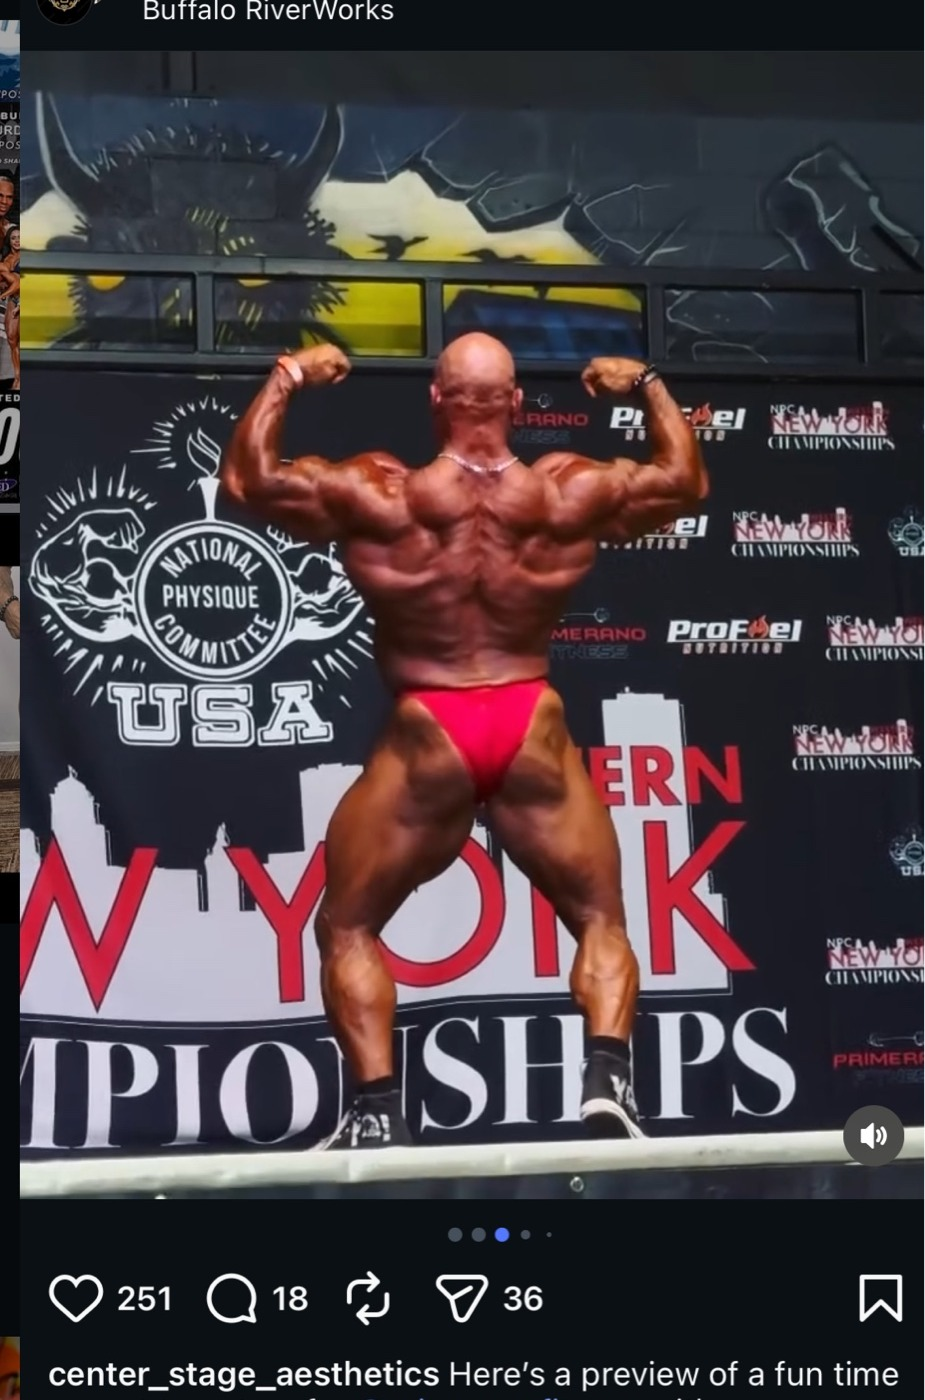
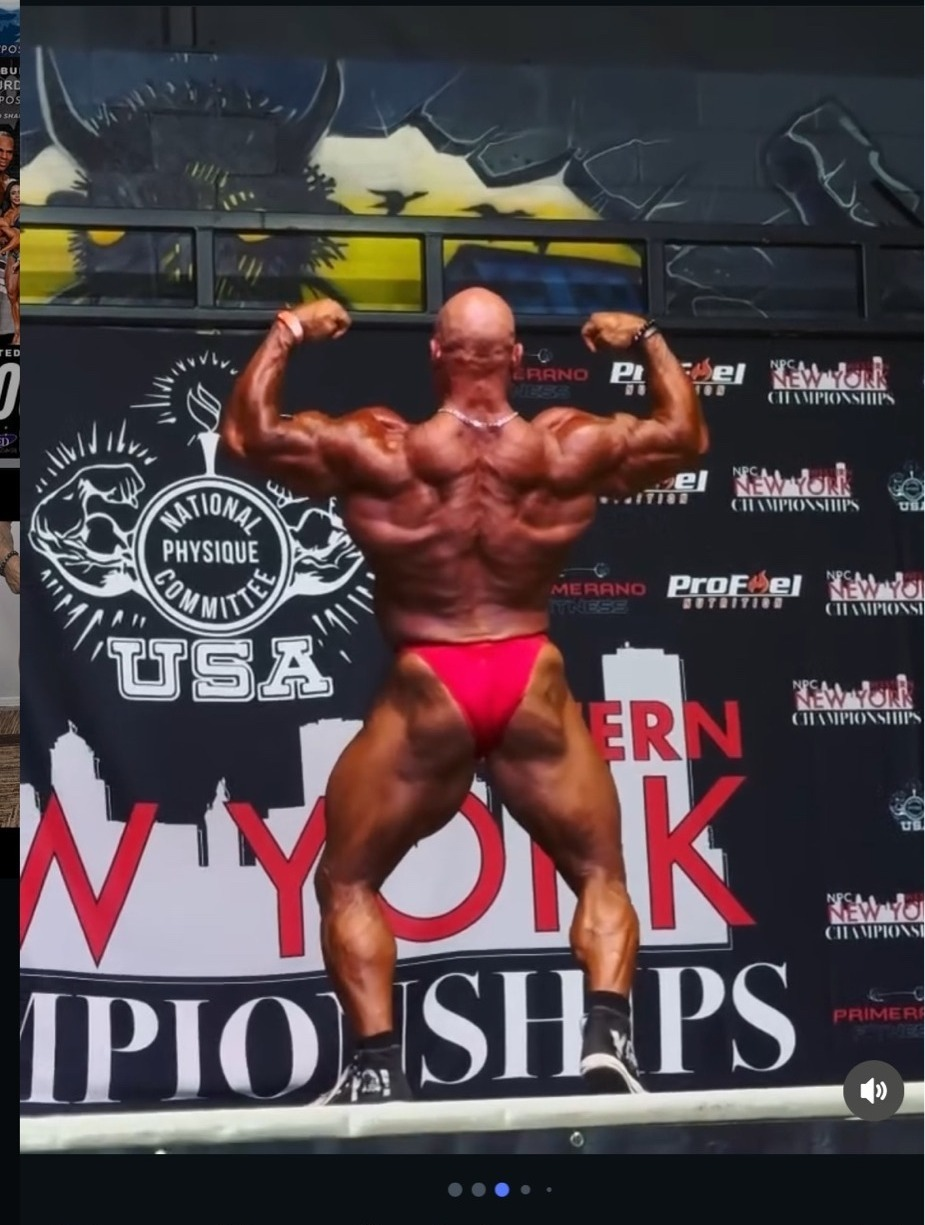
Fix photo cropping, remove duplicates, enhance visual quality
- Crop Instagram UI from 3 images (procard-ladies, guest-posing-npc-ny, gym-recent)
- Remove duplicate gallery-champion-2024, use caption on most-muscular-stage
- Add missing results-procard-male.jpg and event-lieberman-team-trophy.jpg
- Move Rear Lat Spread + Most Muscular right after IFBB Worlds featured photos
- Fix Romania back photo object-position (too zoomed in)
- Enhance photo brightness/contrast/saturation across all photo sections
- Make gallery labels always visible on mobile (no hover needed)
- Enhance Arsenal/Services section: larger cards, icons, richer gradients
- Fix reveal animation: threshold 0 + rootMargin for instant scroll appearance
- Reduce stagger delay from 130ms to 80ms for faster grid reveals

https://claude.ai/code/session_01PbCoDCfGU3BFuGc5GJjS7K

diff --git a/index.html b/index.html
@@ -410,7 +410,7 @@ button{font-family:inherit;cursor:pointer;border:none;background:none}a,button{t
 .circle-grid{display:grid;grid-template-columns:1fr 1fr;gap:10px}
 .circle-photo{border-radius:14px;overflow:hidden;border:1px solid var(--borderS);position:relative;cursor:pointer;transition:all .6s var(--ease);background:linear-gradient(110deg,var(--card) 30%,rgba(224,176,48,.04) 50%,var(--card) 70%);background-size:200% 100%;animation:imgShimmer 1.8s ease-in-out infinite}
 .circle-photo:has(img.loaded){animation:none;background:var(--card)}
-.circle-photo img{width:100%;height:100%;object-fit:cover;object-position:center 25%;transition:transform .7s var(--ease),opacity .6s var(--ease),filter .7s;filter:contrast(1.05) brightness(.92)}
+.circle-photo img{width:100%;height:100%;object-fit:cover;object-position:center 25%;transition:transform .7s var(--ease),opacity .6s var(--ease),filter .7s;filter:contrast(1.08) brightness(.96) saturate(1.05)}
 img[loading="lazy"]{opacity:0;transition:opacity .6s var(--ease)}img[loading="lazy"].loaded{opacity:1}
 .circle-photo::after{content:'';position:absolute;inset:0;background:linear-gradient(180deg,transparent 40%,rgba(0,0,0,.7));pointer-events:none;opacity:.7;transition:opacity .5s}
 .circle-photo:hover::after{opacity:.2}
@@ -435,39 +435,41 @@ img[loading="lazy"]{opacity:0;transition:opacity .6s var(--ease)}img[loading="la
 .results-grid{display:grid;grid-template-columns:repeat(3,1fr);gap:14px}
 .results-photo{border-radius:12px;overflow:hidden;position:relative;border:1px solid var(--borderS);aspect-ratio:1/1;cursor:pointer;transition:all .5s var(--ease);background:linear-gradient(110deg,var(--card) 30%,rgba(224,176,48,.04) 50%,var(--card) 70%);background-size:200% 100%;animation:imgShimmer 1.8s ease-in-out infinite}
 .results-photo:has(img.loaded){animation:none;background:var(--card)}
-.results-photo img{width:100%;height:100%;object-fit:cover;object-position:center 15%;transition:transform .7s var(--ease),filter .7s;filter:contrast(1.05) brightness(.9)}
-.results-photo:hover img{transform:scale(1.06);filter:contrast(1.08) brightness(1.02) saturate(1.05)}
+.results-photo img{width:100%;height:100%;object-fit:cover;object-position:center 15%;transition:transform .7s var(--ease),filter .7s;filter:contrast(1.08) brightness(.95) saturate(1.05)}
+.results-photo:hover img{transform:scale(1.06);filter:contrast(1.1) brightness(1.04) saturate(1.1)}
 .results-photo::before{content:'';position:absolute;inset:0;z-index:2;background:linear-gradient(135deg,transparent 40%,rgba(255,240,180,.05) 50%,transparent 60%);opacity:0;transition:opacity .5s var(--ease);pointer-events:none}
 .results-photo:hover::before{opacity:1}
 .results-photo::after{content:'';position:absolute;bottom:0;left:0;right:0;height:2px;background:var(--goldGrad);opacity:0;transition:opacity .4s var(--ease);box-shadow:0 0 16px var(--accGlow),0 -4px 16px rgba(224,176,48,.08)}
 .results-photo:hover::after{opacity:1}
 .results-photo:hover{box-shadow:0 12px 40px rgba(0,0,0,.5),0 0 40px rgba(224,176,48,.06);border-color:var(--border);transform:translateY(-4px)}
-.results-photo-label{position:absolute;bottom:0;left:0;right:0;padding:12px 14px;background:linear-gradient(transparent,rgba(0,0,0,.9));font-family:var(--mono);font-size:9px;letter-spacing:.08em;color:var(--ow);opacity:.7;transition:all .3s;text-transform:uppercase;z-index:1}
+.results-photo-label{position:absolute;bottom:0;left:0;right:0;padding:14px 16px;background:linear-gradient(transparent,rgba(0,0,0,.92));font-family:var(--mono);font-size:9px;letter-spacing:.1em;color:var(--ow);opacity:.85;transition:all .3s;text-transform:uppercase;z-index:1}
 .results-photo:hover .results-photo-label{opacity:1}
 .results-photo-wide{grid-column:1/-1;aspect-ratio:21/9;max-height:300px}
 .results-photo-wide img{object-position:center center}
 /* SERVICES */
-.svc-grid{display:grid;grid-template-columns:repeat(auto-fit,minmax(300px,1fr));gap:18px}
-.svc{background:linear-gradient(160deg,rgba(12,11,8,.95),rgba(20,18,10,.98));border:1px solid var(--borderS);border-radius:14px;padding:36px 28px;position:relative;transition:all .5s var(--ease),transform .15s ease-out;overflow:hidden;box-shadow:0 2px 20px rgba(0,0,0,.3),inset 0 1px 0 rgba(224,176,48,.06);cursor:pointer;backdrop-filter:blur(8px);-webkit-backdrop-filter:blur(8px);transform-style:preserve-3d;will-change:transform}
-.svc:hover{background:linear-gradient(160deg,rgba(16,14,10,.95),rgba(28,24,12,.98));border-color:var(--borderH);box-shadow:0 20px 60px rgba(0,0,0,.6),0 0 50px var(--accS),0 0 100px rgba(224,176,48,.06),inset 0 1px 0 rgba(224,176,48,.12)}
-.svc::before{content:'';position:absolute;top:0;left:0;right:0;height:2px;background:var(--goldGrad);opacity:0;transition:opacity .4s;box-shadow:0 0 20px var(--accS),0 0 40px rgba(224,176,48,.1)}.svc:hover::before{opacity:1}
+.svc-grid{display:grid;grid-template-columns:repeat(auto-fit,minmax(300px,1fr));gap:22px}
+.svc{background:linear-gradient(160deg,rgba(12,11,8,.97),rgba(22,19,10,.99));border:1px solid var(--borderS);border-radius:16px;padding:42px 32px;position:relative;transition:all .5s var(--ease),transform .15s ease-out;overflow:hidden;box-shadow:0 4px 30px rgba(0,0,0,.4),0 1px 0 rgba(224,176,48,.04) inset,inset 0 -1px 0 rgba(0,0,0,.3);cursor:pointer;backdrop-filter:blur(12px);-webkit-backdrop-filter:blur(12px);transform-style:preserve-3d;will-change:transform}
+.svc:hover{background:linear-gradient(160deg,rgba(18,16,10,.97),rgba(30,26,14,.99));border-color:var(--borderH);box-shadow:0 24px 80px rgba(0,0,0,.7),0 0 60px var(--accS),0 0 120px rgba(224,176,48,.08),inset 0 1px 0 rgba(224,176,48,.15)}
+.svc::before{content:'';position:absolute;top:0;left:0;right:0;height:2px;background:var(--goldGrad);opacity:.25;transition:opacity .4s;box-shadow:0 0 20px var(--accS),0 0 40px rgba(224,176,48,.1)}.svc:hover::before{opacity:1}
 .svc::after{content:'';position:absolute;top:-100%;left:-50%;width:200%;height:100%;background:linear-gradient(180deg,transparent 40%,rgba(224,176,48,.04) 50%,transparent 60%);transform:rotate(-15deg);transition:top 1s var(--ease);pointer-events:none}.svc:hover::after{top:100%}
 /* SVC GLOW FOLLOW — radial glow follows cursor */
-.svc-glow{position:absolute;inset:0;pointer-events:none;opacity:0;transition:opacity .5s;background:radial-gradient(circle 200px at var(--mx,50%) var(--my,50%),rgba(224,176,48,.06),transparent 60%)}
+.svc-glow{position:absolute;inset:0;pointer-events:none;opacity:0;transition:opacity .5s;background:radial-gradient(circle 250px at var(--mx,50%) var(--my,50%),rgba(224,176,48,.08),transparent 60%)}
 .svc:hover .svc-glow{opacity:1}
-.svc-num{font-family:var(--mono);font-size:10px;color:var(--acc);letter-spacing:.1em;margin-bottom:16px;opacity:.3;transition:opacity .3s}.svc:hover .svc-num{opacity:.7}
-.svc-icon{width:52px;height:52px;border-radius:14px;background:linear-gradient(145deg,rgba(12,11,8,1),var(--bg2));border:1px solid var(--borderS);display:flex;align-items:center;justify-content:center;margin-bottom:20px;color:var(--acc);transition:all .4s var(--ease);position:relative}
-.svc-icon::after{content:'';position:absolute;inset:-1px;border-radius:14px;background:conic-gradient(from 0deg,transparent,var(--acc),transparent) border-box;-webkit-mask:linear-gradient(#fff 0 0) padding-box,linear-gradient(#fff 0 0);-webkit-mask-composite:xor;mask-composite:exclude;opacity:0;transition:opacity .4s}
-.svc:hover .svc-icon::after{opacity:.4}
+.svc-num{font-family:var(--mono);font-size:11px;color:var(--acc);letter-spacing:.14em;margin-bottom:18px;opacity:.4;transition:opacity .3s}.svc:hover .svc-num{opacity:.8}
+.svc-icon{width:60px;height:60px;border-radius:16px;background:linear-gradient(145deg,rgba(14,12,8,1),rgba(26,22,12,.95));border:1px solid rgba(224,176,48,.12);display:flex;align-items:center;justify-content:center;margin-bottom:24px;color:var(--acc);transition:all .4s var(--ease);position:relative;box-shadow:0 2px 12px rgba(0,0,0,.3),inset 0 1px 0 rgba(224,176,48,.05)}
+.svc-icon::after{content:'';position:absolute;inset:-1px;border-radius:16px;background:conic-gradient(from 0deg,transparent,var(--acc),transparent) border-box;-webkit-mask:linear-gradient(#fff 0 0) padding-box,linear-gradient(#fff 0 0);-webkit-mask-composite:xor;mask-composite:exclude;opacity:0;transition:opacity .4s}
+.svc:hover .svc-icon::after{opacity:.5}
 .svc-icon svg{transition:stroke .3s var(--ease),transform .3s var(--ease),filter .3s}
-.svc:hover .svc-icon{border-color:var(--border);box-shadow:0 0 24px var(--accS),0 0 48px rgba(224,176,48,.06);transform:scale(1.08) rotate(-3deg)}
-.svc:hover .svc-icon svg{stroke:var(--accVib);filter:drop-shadow(0 0 8px rgba(224,176,48,.3))}
-.svc-name{font-family:var(--display);font-size:20px;font-weight:700;color:var(--wh);margin-bottom:10px;letter-spacing:.02em;transition:text-shadow .3s}
-.svc:hover .svc-name{text-shadow:0 0 30px rgba(224,176,48,.1)}
-.svc-desc{font-size:15px;color:var(--ow);line-height:1.8;margin-bottom:24px}
-.svc-book{font-family:var(--mono);font-size:10px;letter-spacing:.12em;text-transform:uppercase;color:var(--acc);display:inline-flex;align-items:center;gap:8px;transition:all .3s}.svc-book:hover{color:var(--accVib);gap:12px}
-.svc-featured{border-color:var(--border);background:linear-gradient(160deg,rgba(16,14,8,.95),rgba(24,20,10,.98))}
-.svc-badge{position:absolute;top:16px;right:16px;font-family:var(--mono);font-size:8px;letter-spacing:.14em;text-transform:uppercase;color:var(--bg);background:var(--goldGrad);background-size:300% 100%;padding:5px 12px;border-radius:4px;font-weight:600;box-shadow:0 0 16px rgba(224,176,48,.3),0 0 40px rgba(224,176,48,.1);animation:shimmer 7s linear infinite}
+.svc:hover .svc-icon{border-color:rgba(224,176,48,.25);box-shadow:0 0 30px var(--accS),0 0 60px rgba(224,176,48,.08),0 8px 24px rgba(0,0,0,.3);transform:scale(1.1) rotate(-3deg)}
+.svc:hover .svc-icon svg{stroke:var(--accVib);filter:drop-shadow(0 0 10px rgba(224,176,48,.4))}
+.svc-name{font-family:var(--display);font-size:22px;font-weight:700;color:var(--wh);margin-bottom:12px;letter-spacing:.02em;transition:text-shadow .3s}
+.svc:hover .svc-name{text-shadow:0 0 40px rgba(224,176,48,.15)}
+.svc-desc{font-size:15px;color:var(--ow);line-height:1.85;margin-bottom:28px;opacity:.85}
+.svc:hover .svc-desc{opacity:1}
+.svc-book{font-family:var(--mono);font-size:10px;letter-spacing:.14em;text-transform:uppercase;color:var(--acc);display:inline-flex;align-items:center;gap:8px;transition:all .3s;opacity:.7}.svc-book:hover{color:var(--accVib);gap:14px;opacity:1}
+.svc-featured{border-color:rgba(224,176,48,.18);background:linear-gradient(160deg,rgba(18,16,8,.97),rgba(28,24,12,.99));box-shadow:0 4px 30px rgba(0,0,0,.4),0 0 40px rgba(224,176,48,.04),inset 0 1px 0 rgba(224,176,48,.1)}
+.svc-featured::before{opacity:.5}
+.svc-badge{position:absolute;top:18px;right:18px;font-family:var(--mono);font-size:8px;letter-spacing:.16em;text-transform:uppercase;color:var(--bg);background:var(--goldGrad);background-size:300% 100%;padding:6px 14px;border-radius:5px;font-weight:600;box-shadow:0 0 20px rgba(224,176,48,.35),0 0 50px rgba(224,176,48,.12);animation:shimmer 7s linear infinite}
 /* GALLERY */
 .gal-grid{display:grid;grid-template-columns:repeat(3,1fr);gap:12px}
 .gal-item{border-radius:12px;overflow:hidden;position:relative;border:1px solid var(--borderS);aspect-ratio:3/4;cursor:pointer;transition:all .5s var(--ease);background:linear-gradient(110deg,var(--card) 30%,rgba(224,176,48,.04) 50%,var(--card) 70%);background-size:200% 100%;animation:imgShimmer 1.8s ease-in-out infinite}
@@ -476,16 +478,16 @@ img[loading="lazy"]{opacity:0;transition:opacity .6s var(--ease)}img[loading="la
 .gal-item.featured{grid-column:span 2;aspect-ratio:1/1;box-shadow:0 0 40px rgba(224,176,48,.04),0 0 80px rgba(224,176,48,.02)}
 .gal-item.featured::after{content:'';position:absolute;inset:-1px;border-radius:12px;background:linear-gradient(135deg,rgba(224,176,48,.15),transparent 40%,transparent 60%,rgba(224,176,48,.15));-webkit-mask:linear-gradient(#fff 0 0) content-box,linear-gradient(#fff 0 0);-webkit-mask-composite:xor;mask-composite:exclude;padding:1px;opacity:0;transition:opacity .5s;pointer-events:none}
 .gal-item.featured:hover::after{opacity:1}
-.gal-item.featured img{filter:contrast(1.08) brightness(.9) saturate(1.05)}
-.gal-item.featured:hover img{filter:contrast(1.1) brightness(1.02) saturate(1.1)}
-.gal-item img{width:100%;height:100%;object-fit:cover;object-position:center 20%;transition:transform .7s var(--ease),filter .7s var(--ease);filter:contrast(1.05) brightness(.88)}
-.gal-item:hover img{transform:scale(1.06);filter:contrast(1.08) brightness(1.02)}
+.gal-item.featured img{filter:contrast(1.1) brightness(.96) saturate(1.08)}
+.gal-item.featured:hover img{filter:contrast(1.14) brightness(1.04) saturate(1.12)}
+.gal-item img{width:100%;height:100%;object-fit:cover;object-position:center 20%;transition:transform .7s var(--ease),filter .7s var(--ease);filter:contrast(1.08) brightness(.94) saturate(1.05)}
+.gal-item:hover img{transform:scale(1.06);filter:contrast(1.12) brightness(1.04) saturate(1.1)}
 .gal-item:hover{box-shadow:0 16px 50px rgba(0,0,0,.5),0 0 50px rgba(224,176,48,.08);border-color:var(--border);transform:translateY(-4px)}
 /* Inner light sweep on gallery hover */
 .gal-item::before{content:'';position:absolute;inset:0;z-index:2;background:linear-gradient(135deg,transparent 40%,rgba(255,240,180,.06) 50%,transparent 60%);opacity:0;transition:opacity .5s var(--ease);pointer-events:none}
 .gal-item:hover::before{opacity:1}
-.gal-label{position:absolute;bottom:0;left:0;right:0;padding:14px 16px;background:linear-gradient(transparent,rgba(0,0,0,.92));font-family:var(--mono);font-size:9px;letter-spacing:.1em;color:var(--ow);opacity:0;transition:all .35s;text-transform:uppercase;transform:translateY(4px)}
-.gal-item:hover .gal-label{opacity:1;transform:translateY(0)}
+.gal-label{position:absolute;bottom:0;left:0;right:0;padding:14px 16px;background:linear-gradient(transparent,rgba(0,0,0,.92));font-family:var(--mono);font-size:9px;letter-spacing:.1em;color:var(--ow);opacity:.8;transition:all .35s;text-transform:uppercase;transform:translateY(0)}
+.gal-item:hover .gal-label{opacity:1}
 /* LIGHTBOX */
 .lightbox{position:fixed;inset:0;z-index:500;background:rgba(0,0,0,.96);backdrop-filter:blur(30px) saturate(.8);-webkit-backdrop-filter:blur(30px) saturate(.8);display:flex;align-items:center;justify-content:center;opacity:0;pointer-events:none;transition:opacity .4s var(--ease);cursor:pointer;padding:20px}
 .lightbox.open{opacity:1;pointer-events:auto}
@@ -886,6 +888,11 @@ img[loading="lazy"]{opacity:0;transition:opacity .6s var(--ease)}img[loading="la
       </div>
 
       <div class="results-photo reveal" onclick="openLB(this)" role="button" tabindex="0" onkeydown="if(event.key==='Enter'||event.key===' '){event.preventDefault();openLB(this)}">
+        <img src="img/results-procard-male.jpg" alt="Athlete holding IFBB Pro Card with Mike Ely backstage" loading="lazy" style="object-position:center 15%">
+        <div class="results-photo-label">Pro Card</div>
+      </div>
+
+      <div class="results-photo reveal" onclick="openLB(this)" role="button" tabindex="0" onkeydown="if(event.key==='Enter'||event.key===' '){event.preventDefault();openLB(this)}">
         <img src="img/results-procard-female-2.jpg" alt="Athlete raising IFBB Pro Card outdoors" loading="lazy" style="object-position:center 10%">
         <div class="results-photo-label">Pro Card</div>
       </div>
@@ -930,6 +937,11 @@ img[loading="lazy"]{opacity:0;transition:opacity .6s var(--ease)}img[loading="la
       <div class="results-photo reveal" onclick="openLB(this)" role="button" tabindex="0" onkeydown="if(event.key==='Enter'||event.key===' '){event.preventDefault();openLB(this)}">
         <img src="img/event-iwa-best-coach.jpg" alt="Mike Ely receiving Best Team award at NPC Natural Northern USA Championships" loading="lazy" style="object-position:center center">
         <div class="results-photo-label">Best Team — NPC Natural Northern USA</div>
+      </div>
+
+      <div class="results-photo reveal" onclick="openLB(this)" role="button" tabindex="0" onkeydown="if(event.key==='Enter'||event.key===' '){event.preventDefault();openLB(this)}">
+        <img src="img/event-lieberman-team-trophy.jpg" alt="Mike Ely and Dave Lieberman with team trophies" loading="lazy" style="object-position:center center">
+        <div class="results-photo-label">Team Trophy — Lieberman Classic</div>
       </div>
 
     </div>
@@ -1028,19 +1040,25 @@ img[loading="lazy"]{opacity:0;transition:opacity .6s var(--ease)}img[loading="la
       </div>
 
       <div class="gal-item featured reveal" onclick="openLB(this)" role="button" tabindex="0" onkeydown="if(event.key==='Enter'||event.key===' '){event.preventDefault();openLB(this)}">
-        <img src="img/gallery-champion-2024.jpg" alt="Mike Ely most muscular on stage with trophies, 2024 IFBB Pro Masters World Championship" loading="lazy" style="object-position:center center">
+        <img src="img/gallery-most-muscular-stage.jpg" alt="Mike Ely most muscular on stage, 2024 IFBB Pro Masters World Championship" loading="lazy" style="object-position:center 20%">
         <div class="gal-label">IFBB Pro Masters World Champion — 2024</div>
+      </div>
+
+      <!-- GYM HIGHLIGHTS — right after featured -->
+      <div class="gal-item reveal" onclick="openLB(this)" role="button" tabindex="0" onkeydown="if(event.key==='Enter'||event.key===' '){event.preventDefault();openLB(this)}">
+        <img src="img/gallery-rear-lat-spread.jpg" alt="Mike Ely rear lat spread" loading="lazy" style="object-position:center 15%">
+        <div class="gal-label">Rear Lat Spread</div>
+      </div>
+
+      <div class="gal-item reveal" onclick="openLB(this)" role="button" tabindex="0" onkeydown="if(event.key==='Enter'||event.key===' '){event.preventDefault();openLB(this)}">
+        <img src="img/gallery-front-most-muscular-gym.jpg" alt="Mike Ely most muscular" loading="lazy" style="object-position:center 12%">
+        <div class="gal-label">Most Muscular</div>
       </div>
 
       <!-- STAGE — newest to oldest -->
 
       <div class="gal-item reveal" onclick="openLB(this)" role="button" tabindex="0" onkeydown="if(event.key==='Enter'||event.key===' '){event.preventDefault();openLB(this)}">
-        <img src="img/gallery-most-muscular-stage.jpg" alt="Mike Ely most muscular pose on stage" loading="lazy" style="object-position:center 15%">
-        <div class="gal-label">Most Muscular — Stage</div>
-      </div>
-
-      <div class="gal-item reveal" onclick="openLB(this)" role="button" tabindex="0" onkeydown="if(event.key==='Enter'||event.key===' '){event.preventDefault();openLB(this)}">
-        <img src="img/gallery-olympia-romania-back.jpg" alt="Mike Ely back double bicep at Masters Olympia Romania 2023" loading="lazy" style="object-position:center 15%">
+        <img src="img/gallery-olympia-romania-back.jpg" alt="Mike Ely back double bicep at Masters Olympia Romania 2023" loading="lazy" style="object-position:center 35%">
         <div class="gal-label">Masters Olympia — Romania, 2023</div>
       </div>
 
@@ -1075,16 +1093,6 @@ img[loading="lazy"]{opacity:0;transition:opacity .6s var(--ease)}img[loading="la
       <div class="gal-item reveal" onclick="openLB(this)" role="button" tabindex="0" onkeydown="if(event.key==='Enter'||event.key===' '){event.preventDefault();openLB(this)}">
         <img src="img/gallery-gym-recent.jpg" alt="Mike Ely abs and thigh pose" loading="lazy" style="object-position:center 20%">
         <div class="gal-label">Abs &amp; Thigh</div>
-      </div>
-
-      <div class="gal-item reveal" onclick="openLB(this)" role="button" tabindex="0" onkeydown="if(event.key==='Enter'||event.key===' '){event.preventDefault();openLB(this)}">
-        <img src="img/gallery-rear-lat-spread.jpg" alt="Mike Ely rear lat spread" loading="lazy" style="object-position:center 15%">
-        <div class="gal-label">Rear Lat Spread</div>
-      </div>
-
-      <div class="gal-item reveal" onclick="openLB(this)" role="button" tabindex="0" onkeydown="if(event.key==='Enter'||event.key===' '){event.preventDefault();openLB(this)}">
-        <img src="img/gallery-front-most-muscular-gym.jpg" alt="Mike Ely most muscular" loading="lazy" style="object-position:center 12%">
-        <div class="gal-label">Most Muscular</div>
       </div>
 
       <div class="gal-item reveal" onclick="openLB(this)" role="button" tabindex="0" onkeydown="if(event.key==='Enter'||event.key===' '){event.preventDefault();openLB(this)}">
@@ -1302,13 +1310,13 @@ var revealObs = new IntersectionObserver(function (entries) {
   entries.forEach(function (e) {
     if (e.isIntersecting) { e.target.classList.add('vis'); revealObs.unobserve(e.target); }
   });
-}, { threshold: .15 });
+}, { threshold: 0, rootMargin: '0px 0px 80px 0px' });
 
 document.querySelectorAll('.reveal,.reveal-left,.reveal-right,.reveal-scale,.s-head').forEach(function (el, i) {
   var p = el.parentElement;
   var siblings = p ? Array.from(p.querySelectorAll(':scope > .reveal,:scope > .reveal-left,:scope > .reveal-right,:scope > .reveal-scale')) : [];
   var idx = siblings.indexOf(el);
-  if (idx > 0) el.style.transitionDelay = (idx * 130) + 'ms';
+  if (idx > 0) el.style.transitionDelay = (idx * 80) + 'ms';
   revealObs.observe(el);
 });
 
